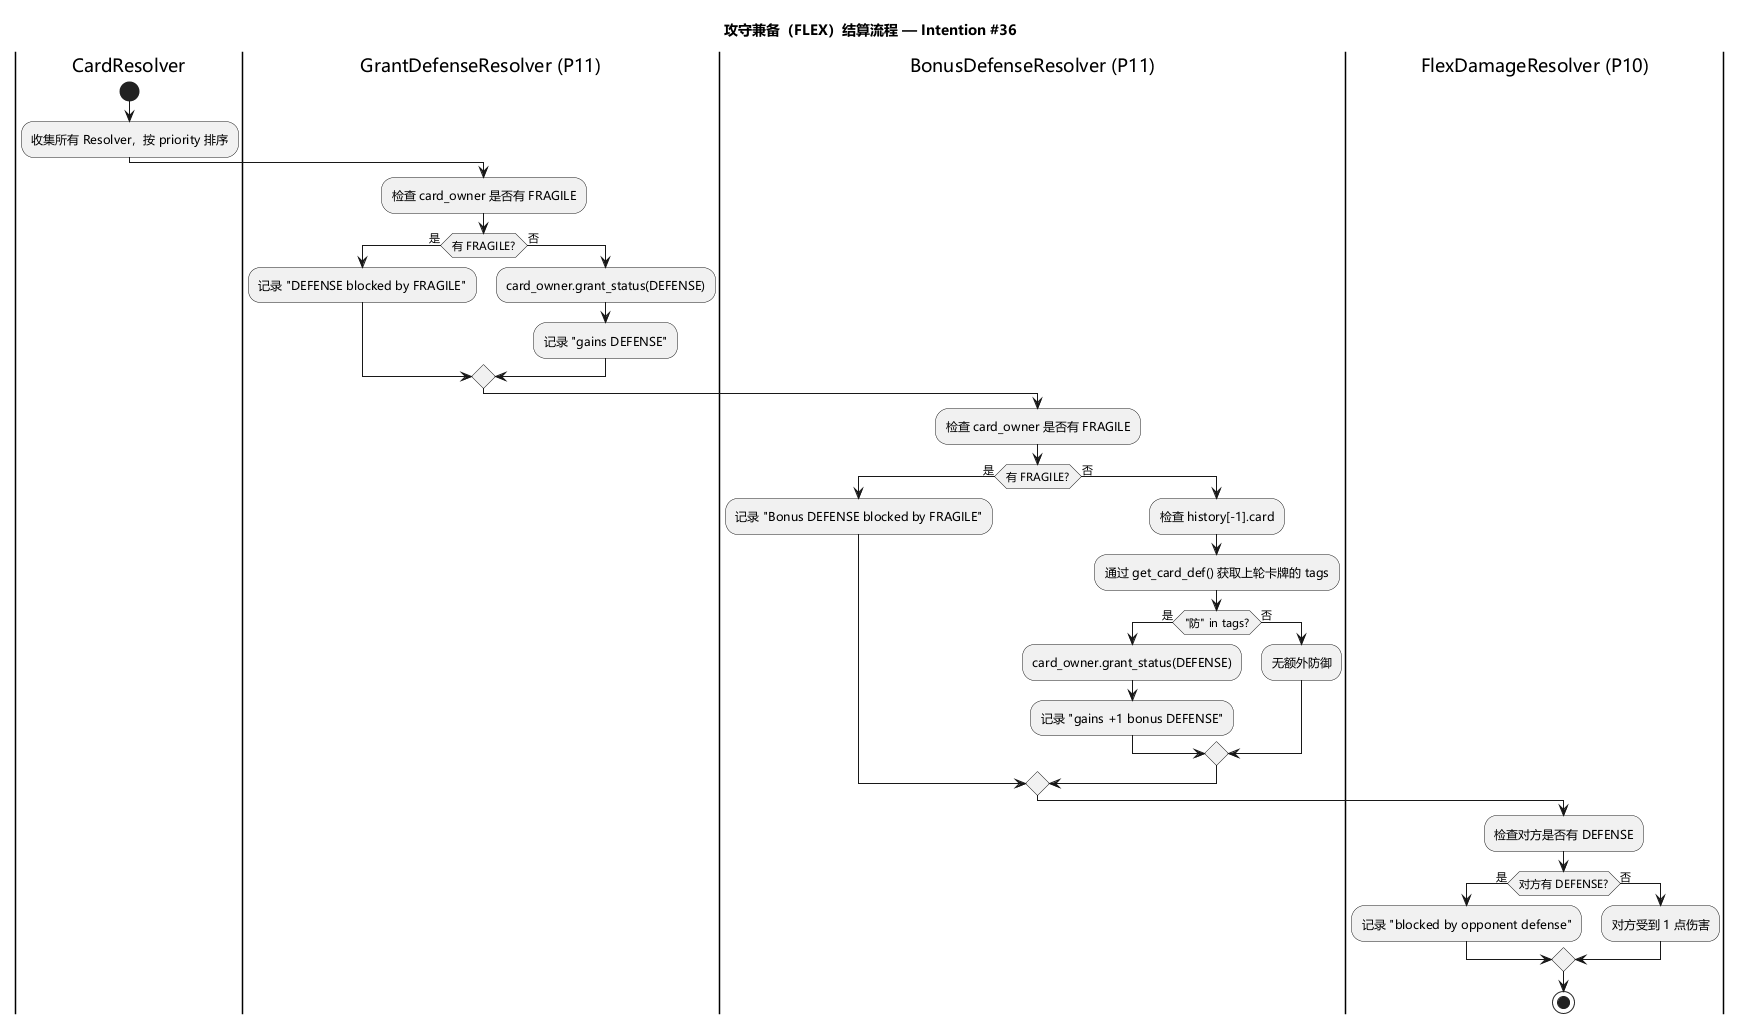
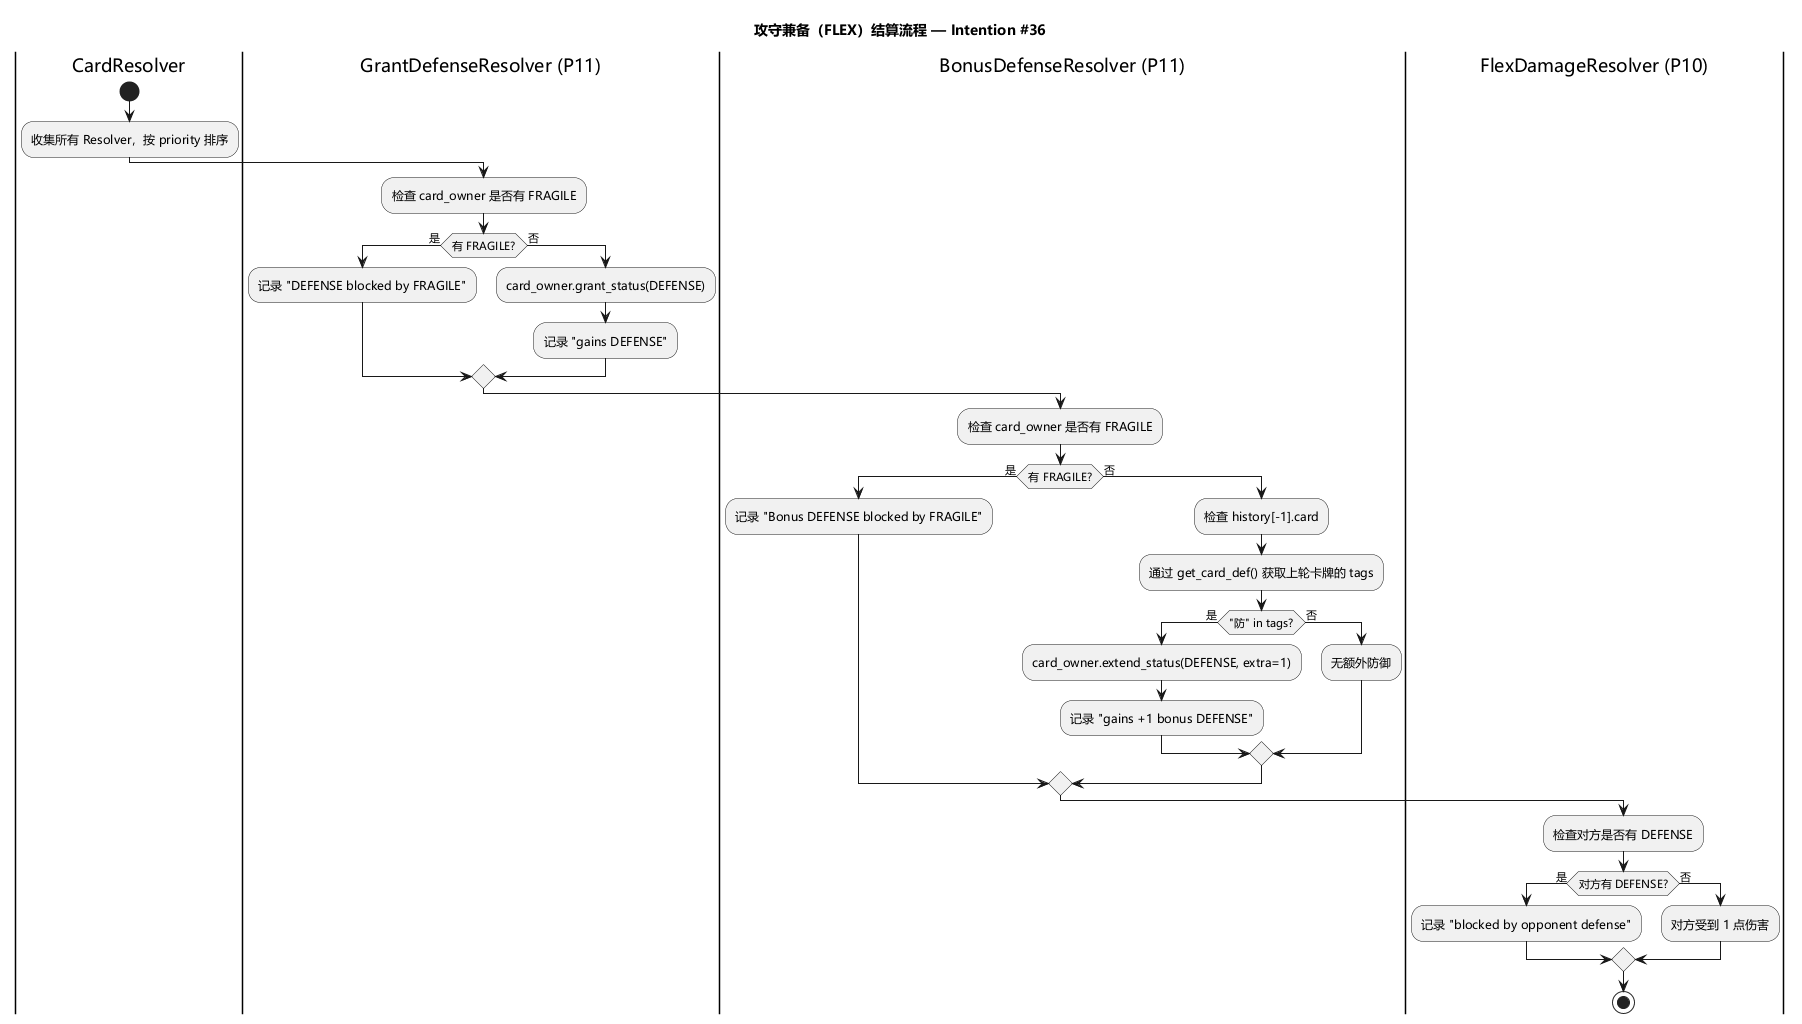
fix(intention36): review fixes - BonusDefense uses extend_status, GrantGuard uses tags
- Fix BonusDefenseResolver to use extend_status(DEFENSE, 1) instead of grant_status
  so defense actually stacks to 2 rounds when combined with GrantDefenseResolver
- Refactor GrantGuardResolver to use tag-based check (Defense tag) instead of
  hardcoded CardType set, consistent with ReflectResolver and BonusDefenseResolver
- Add combined test verifying GrantDefense + BonusDefense yields DEFENSE lifetime=2
- Update flex_flow.puml to reflect extend_status call

diff --git a/src/backend/game/resolver/grant_guard_resolver.py b/src/backend/game/resolver/grant_guard_resolver.py
@@ -1,40 +1,45 @@
-"""GrantGuardResolver — grants GUARD if card_owner played a defense-granting
-card last round (priority 12).
+"""GrantGuardResolver — grants GUARD if card_owner played a card with
+'防' tag last round (priority 12).
 
-Per card.md (intention/card.md): DEFENSE effect 2 — "如果己方上回合有防御状态，
-则赋予己方联防状态"。Since DEFENSE has lifetime=1 and is removed by the round-end
-status tick, we detect it by checking if the previous round's played card was
-a defense-granting type (DEFENSE, COUNTER, or FLEX).
+Per intention #36: guard trigger condition is "上回合有防御状态或联防状态".
+Since DEFENSE has lifetime=1 and is removed by the round-end status tick,
+we detect it by checking if last round's card had '防' tag — all '防'-tagged
+cards grant DEFENSE, which is a reliable proxy.
 
 Priority 12 runs BEFORE GrantDefenseResolver (priority 11).
 Per design/24: FRAGILE blocks gaining GUARD.
 """
 
-from src.backend.game.card_type import CardType
 from src.backend.game.player_state import StatusType
 from src.backend.game.resolver.base import ResolveContext, ResolveDetails, Resolver
 
-# Cards whose effect 1 grants DEFENSE to caster (per card.md).
-_DEFENSE_GRANTING_CARDS = {CardType.DEFENSE, CardType.COUNTER, CardType.FLEX}
-
 
 class GrantGuardResolver(Resolver):
-    """Grants GUARD if card_owner played defense-granting card last round.
+    """Grants GUARD if card_owner played a '防'-tagged card last round.
 
-    Per card.md: Defense's second effect triggers when the player had
-    defense status in the previous round. Since defense expires after
-    each round's tick, we detect this via the player's action history.
+    Per intention #36 D4: uses tag-based check, consistent with
+    ReflectResolver and BonusDefenseResolver.
     """
 
     def get_priority(self) -> int:
         return 12
 
     def resolve(self, ctx: ResolveContext, details: ResolveDetails) -> None:
-        # Check if card_owner played a defense-granting card last round.
+        """Grant GUARD if last round's card has '防' tag.
+
+        Args:
+            ctx: ResolveContext with card_owner and opponent.
+            details: Collects resolution detail strings.
+        """
+        # First round — no history.
         if len(ctx.card_owner.history) == 0:
             return
         last_card = ctx.card_owner.history[-1].card
-        if last_card not in _DEFENSE_GRANTING_CARDS:
+        if last_card is None:
+            return
+        # Lazy import to avoid circular dependency (card_def → resolver).
+        from src.backend.game.card_def import get_card_def  # noqa: PLC0415
+        if "防" not in get_card_def(last_card).tags:
             return
         # Per design/24: FRAGILE blocks GUARD.
         if ctx.card_owner.has_status(StatusType.FRAGILE):

diff --git a/tests/unit/test_resolver_intention36.py b/tests/unit/test_resolver_intention36.py
@@ -407,6 +407,26 @@ class TestFlexResolver36:
         BonusDefenseResolver().resolve(ctx, details)
         assert gm.player_1.has_status(StatusType.DEFENSE)
 
+    def test_bonus_and_base_defense_combine_to_2_rounds(self):
+        """TC-08-02 (combined): GrantDefense + BonusDefense → DEFENSE(2).
+
+        When both GrantDefenseResolver and BonusDefenseResolver fire,
+        the resulting DEFENSE should have lifetime=2, surviving one tick.
+        """
+        gm = _make_gm(
+            p1_history=[PlayerHistoryItem(CardType.DEFENSE)],
+        )
+        ctx = _ctx(gm, "1", CardType.FLEX, opponent_card=CardType.ATTACK)
+        details = ResolveDetails()
+        # Fire both in registration order (GrantDefense first, then Bonus)
+        GrantDefenseResolver().resolve(ctx, details)
+        BonusDefenseResolver().resolve(ctx, details)
+        assert gm.player_1.has_status(StatusType.DEFENSE)
+        # Find the DEFENSE status and verify lifetime=2
+        defense_states = [s for s in gm.player_1.statuses if s.status_type == StatusType.DEFENSE]
+        assert len(defense_states) == 1, "Should have exactly one DEFENSE status"
+        assert defense_states[0].lifetime == 2, f"Expected lifetime=2, got {defense_states[0].lifetime}"
+
     def test_no_bonus_without_defense_tag_history(self):
         """TC-08-03: last round ATTACK (no 防 tag) → no bonus defense."""
         gm = _make_gm(

diff --git a/src/backend/game/resolver/bonus_defense_resolver.py b/src/backend/game/resolver/bonus_defense_resolver.py
@@ -48,5 +48,5 @@ class BonusDefenseResolver(Resolver):
             details.add("Bonus DEFENSE blocked by FRAGILE")
             return
 
-        ctx.card_owner.grant_status(StatusType.DEFENSE)
+        ctx.card_owner.extend_status(StatusType.DEFENSE, 1)
         details.add("gains +1 bonus DEFENSE")
